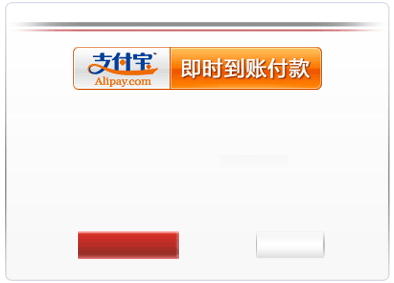
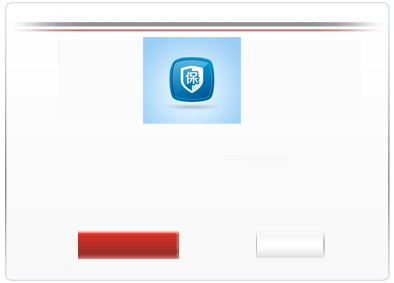
0527 code update 3

diff --git a/app/assets/stylesheets/usersurvey.css b/app/assets/stylesheets/usersurvey.css
@@ -150,7 +150,7 @@ div.tip {
 
 .popup_alipay_content {
     width: 260px;
-    margin-top: 120px;
+    margin-top: 130px;
     margin-left: 65px;
 }
 
@@ -161,7 +161,7 @@ div.tip {
 
 .popup_alipay_2buttons_confirm {
     width: 80px;
-    margin-top: 55px;
+    margin-top: 42px;
     margin-left: 15px;
     float: left;
 }
@@ -174,7 +174,7 @@ div.tip {
 
 .popup_alipay_2buttons_cancel {
     widht: 40px;
-    margin-top: 55px;
+    margin-top: 42px;
     margin-right: 28px;
     float: right;
 }

diff --git a/app/controllers/usersurvey_controller.rb b/app/controllers/usersurvey_controller.rb
@@ -42,10 +42,8 @@ class UsersurveyController < ApplicationController
     render :json => "s".to_json
   end
 
-  def pay
-    if session[:webusername]==nil
-      redirect_to(:controller=>"usersurvey", :action=>"apply")
-    else
+  def apply
+    if session[:webusername]!=nil
       @webuser = Webuser.find_by_username(session[:webusername])
       Time::DATE_FORMATS[:stamp] = '%Y%m%d%H%M%S'
       @subsribe_id=Time.now.to_s(:stamp)+'-'+@webuser.id.to_s
